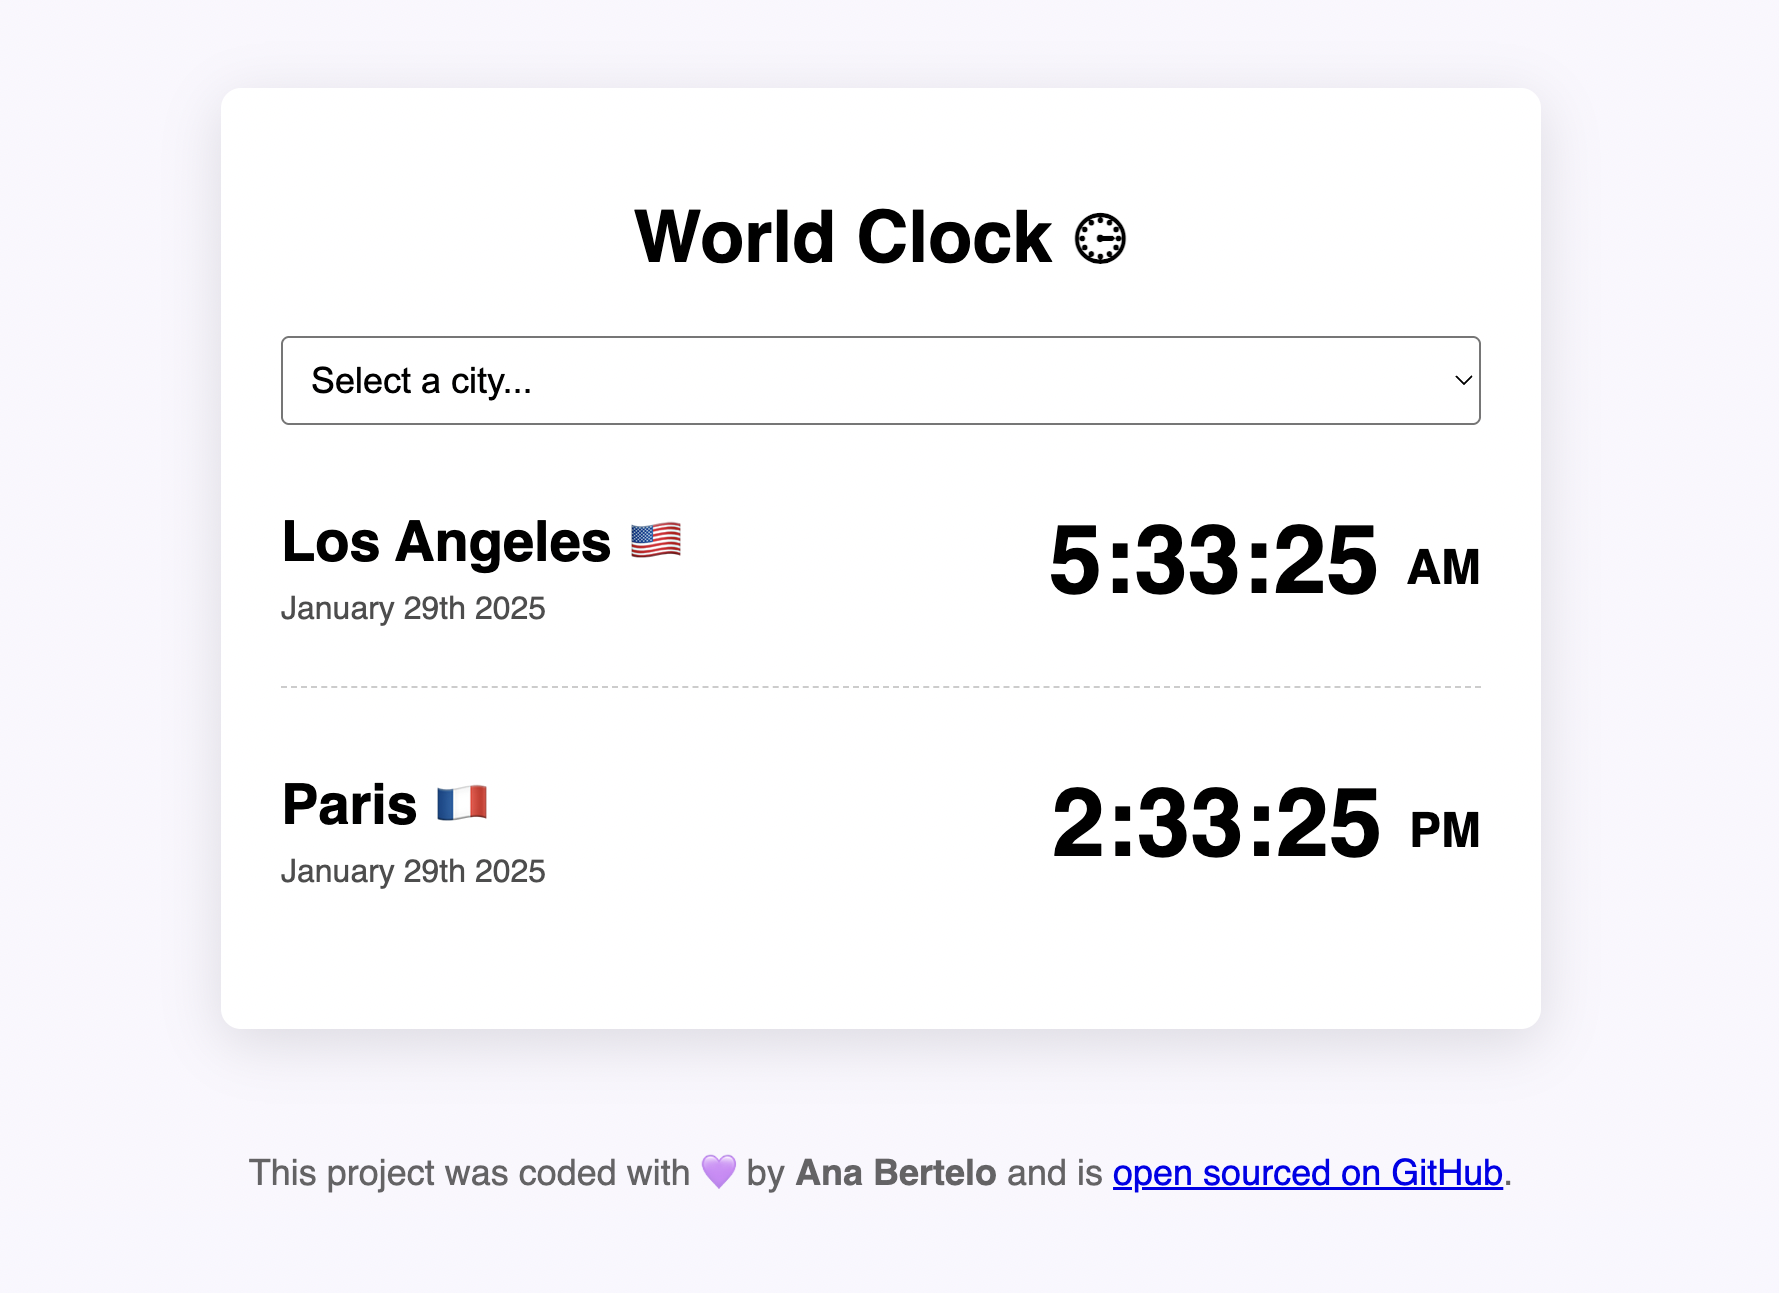
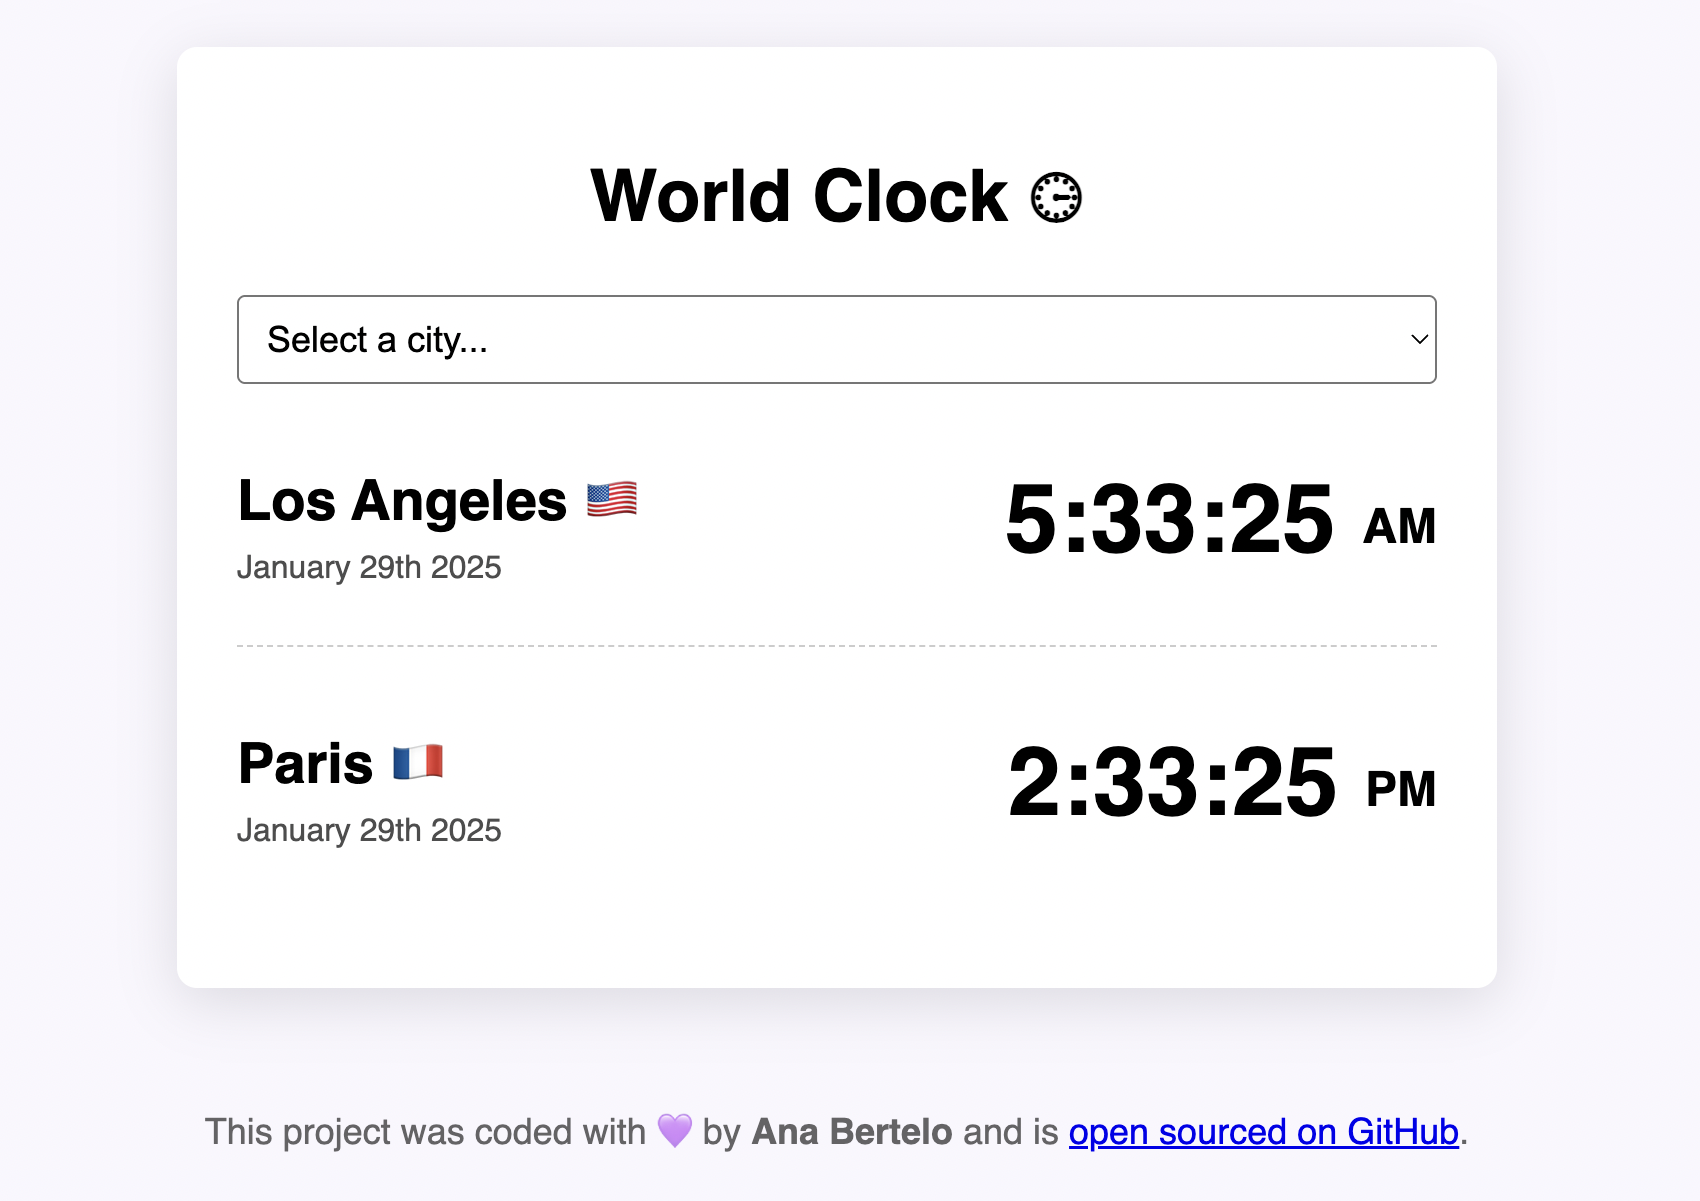
changed all pictures so they are equally sized and added a new project (lisbon travel)

diff --git a/work.html b/work.html
@@ -55,20 +55,20 @@
                     </div>
                     <div class="col-md-6 mb-4">
                         <img src="images/PoemGen.png" class="img-fluid mb-3 rounded" alt="" />
-                        <h3 class="text-center m-0">Meteo Project</h3>
-                        <p class="text-center text-muted">Built with HTML and CSS</p>
+                        <h3 class="text-center m-0">Poem Generator</h3>
+                        <p class="text-center text-muted">Built with HTML, CSS, JavaScript, and AI</p>
                     </div>
                     <div class="row">
                         <div class="col-md-6 mb-4">
 
                             <img src="images/WorldClock.png" class="img-fluid mb-3 rounded" alt="" />
-                            <h3 class="text-center m-0">Meteo Project</h3>
-                            <p class="text-center text-muted">Built with HTML and CSS</p>
+                            <h3 class="text-center m-0">World Clock</h3>
+                            <p class="text-center text-muted">Built with HTML, CSS, JavaScript, and AI</p>
                         </div>
                         <div class="col-md-6 mb-4">
-                            <img src="images/Meteoapp.png" class="img-fluid mb-3 rounded" alt="" />
-                            <h3 class="text-center m-0">Meteo Project</h3>
-                            <p class="text-center text-muted">Built with HTML and CSS</p>
+                            <img src="images/Lisboatravel.png" class="img-fluid mb-3 rounded" alt="" />
+                            <h3 class="text-center m-0">Travel to Lisbon</h3>
+                            <p class="text-center text-muted">Built with HTML and CSS - Fully Responsive</p>
                         </div>
 
                     </div>

diff --git a/index.html b/index.html
@@ -72,6 +72,7 @@
                 </div>
             </div>
         </div>
+
         <div class="row mb-5">
             <div class="col">
                 <div class="project-desciption">
@@ -89,6 +90,7 @@
                 <img src="images/WorldClock.png" class="img-fluid" alt="" />
             </div>
         </div>
+
         <div class="row">
             <div class="col d-none d-lg-block">
                 <img src="images/PoemGen.png" class="img-fluid" alt="" />
@@ -108,6 +110,27 @@
                 </div>
             </div>
         </div>
+
+        <div class="row mb-5">
+            <div class="col">
+                <div class="project-desciption">
+                    <h2 class="mb-5">Travel to Lisbon</h2>
+                    <p class="mb-5 text-muted">
+                        I've been living in Lisbon my whole life. Lisbon is a city full of light and love. Our food is
+                        delicious and there are
+                        amazing places to visit, either in the city, nature, or beach. I created this page as part of a
+                        project for SheCodes to
+                        develop my coding skills.
+                    </p>
+                    <a href="https://travelling-to-lisbon.netlify.app/" class="btn btn-branding-outline"> Learn
+                        more </a>
+                </div>
+            </div>
+            <div class="col d-none d-lg-block">
+                <img src="images/Lisboatravel.png" class="img-fluid" alt="" />
+            </div>
+        </div>
+
         <footer class="container">
             <div class="contact-box d-flex justify-content-between mb-5 d-none d-md-flex">
                 <div>
